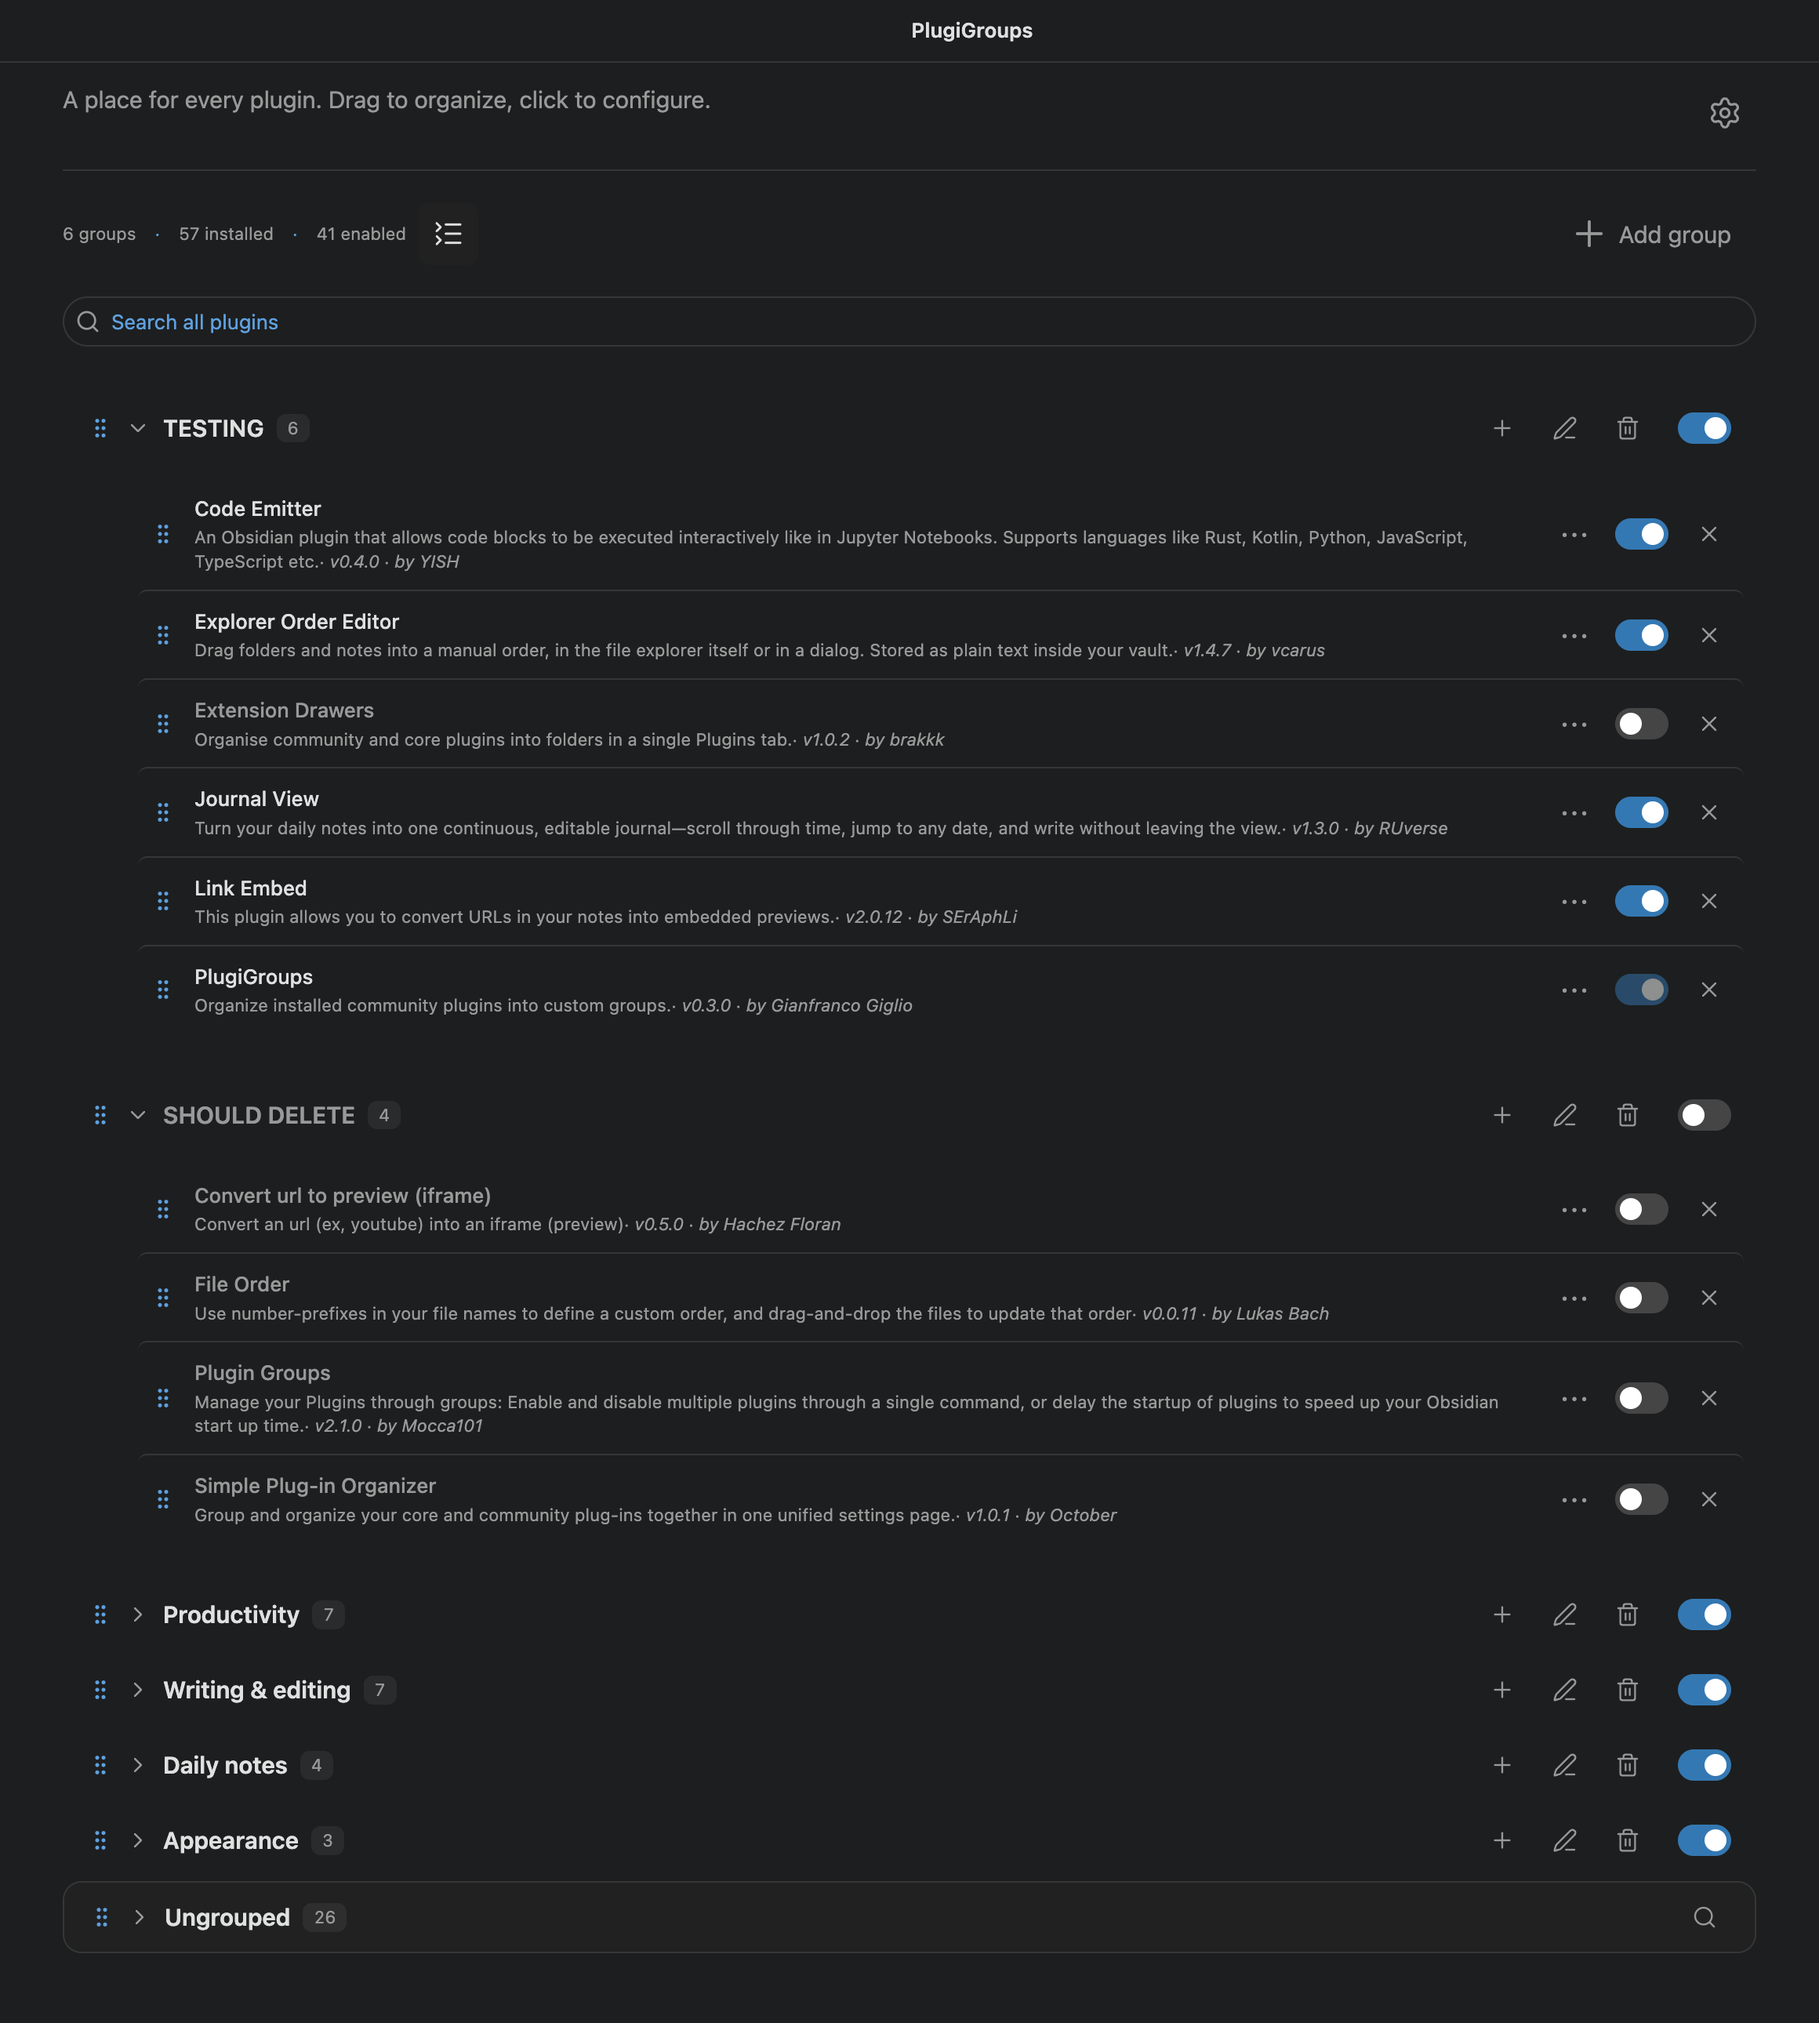
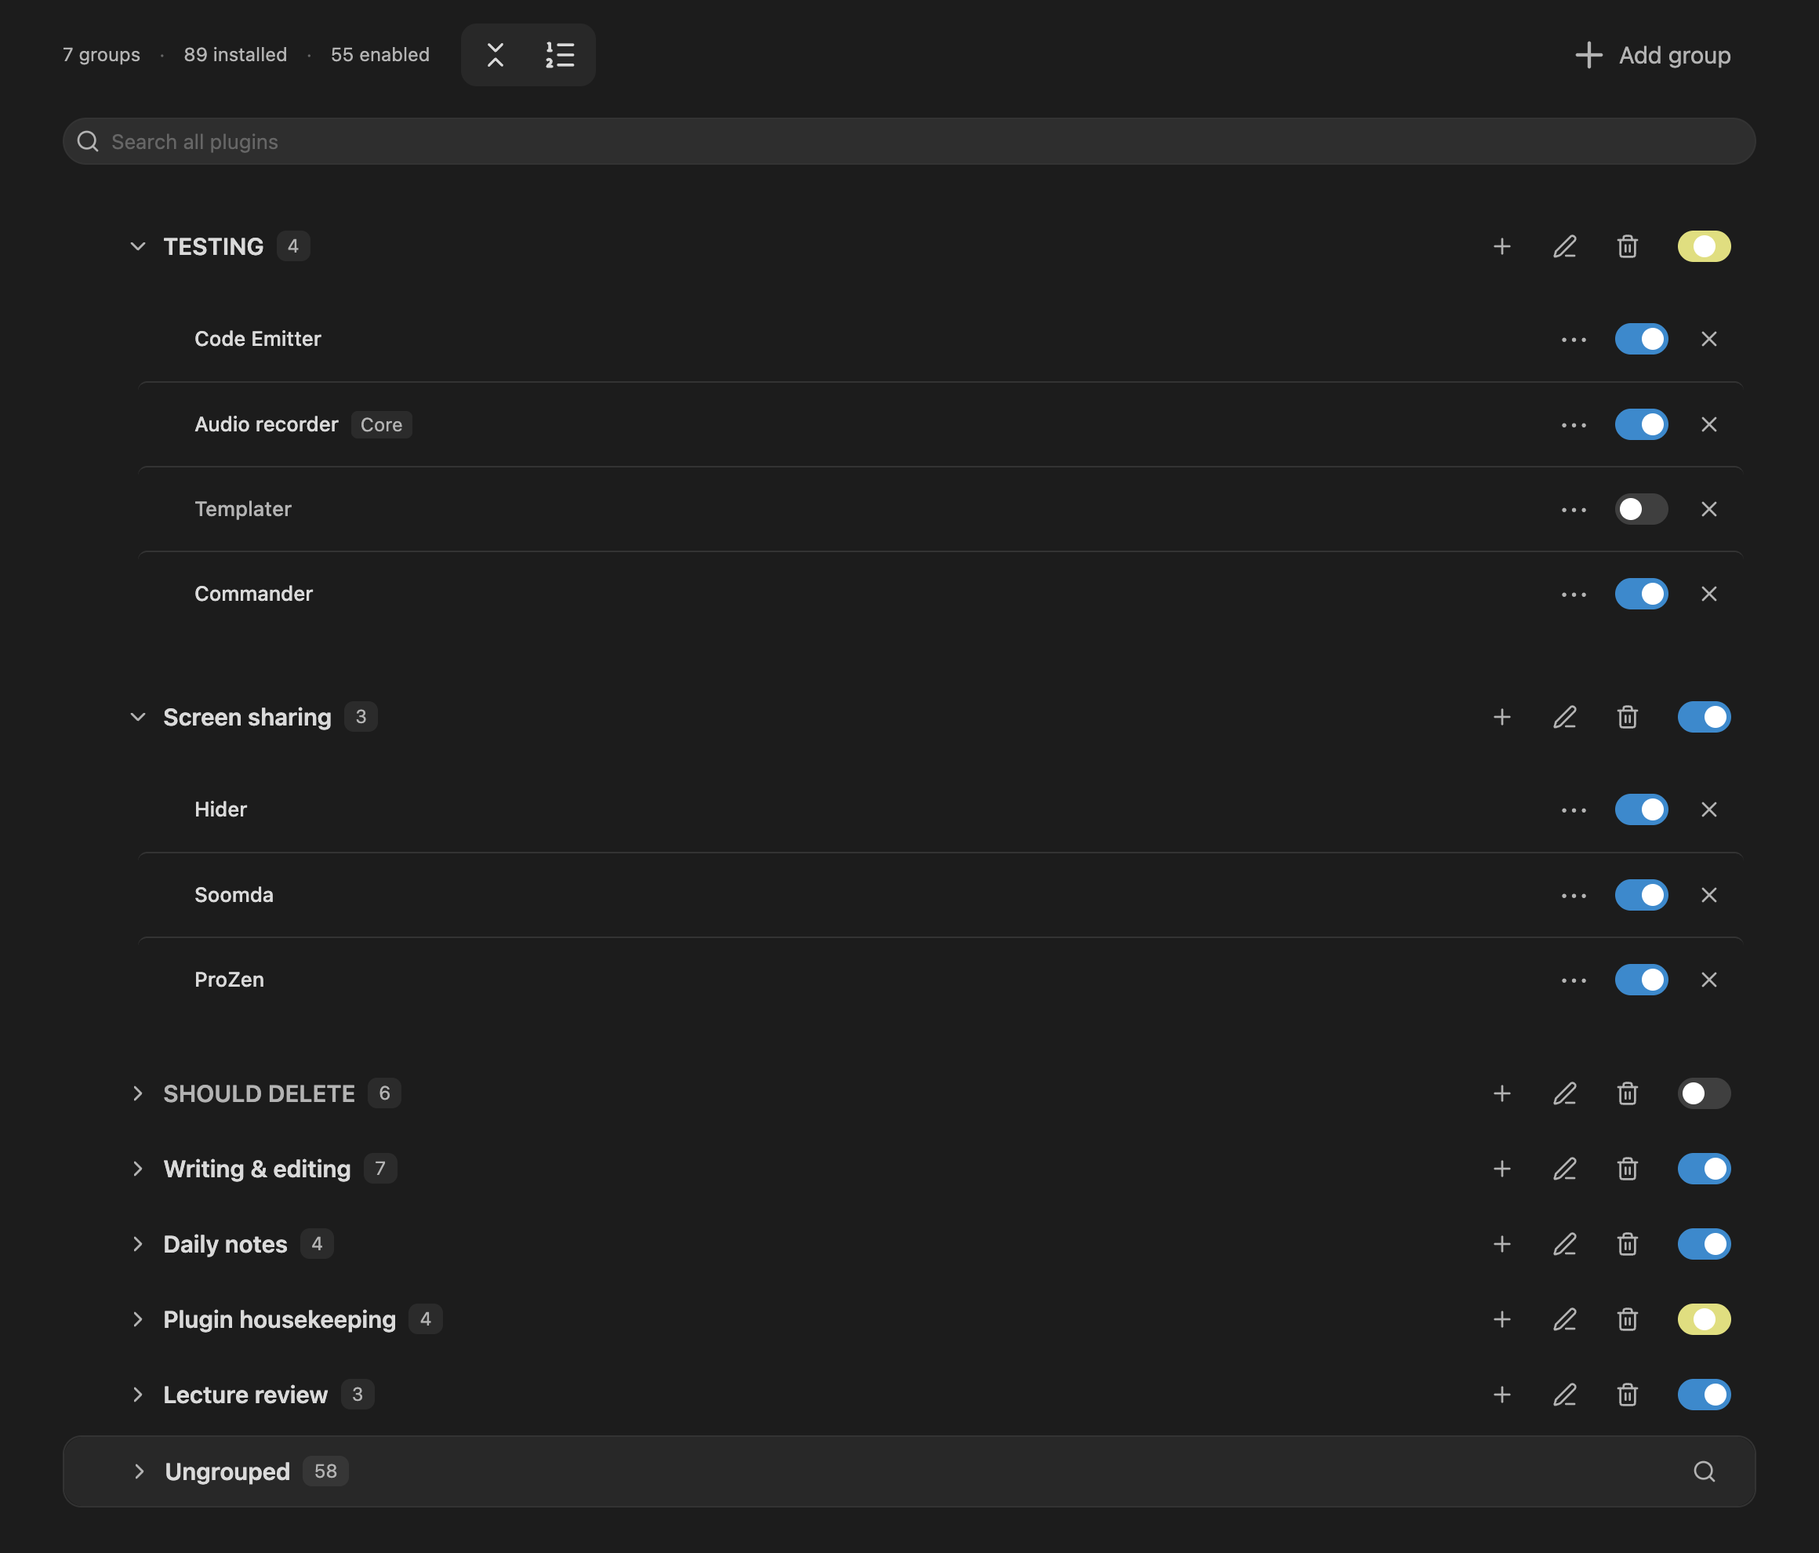
Refresh README screenshot with use-case groups and tri-state switches

diff --git a/README.md b/README.md
@@ -1,6 +1,6 @@
 PlugiGroups allows you to order plugins into groups and manage them.
 
-![PlugiGroups window showing six groups, global search, collapse control, and plugin switches](./images/plugin-groups-2026-10.png)
+![PlugiGroups view showing seven groups, global search, collapse and order controls, and on, middle, and off group switches](./images/plugin-groups-2026-10.png)
 
 ## Using PlugiGroups
 
